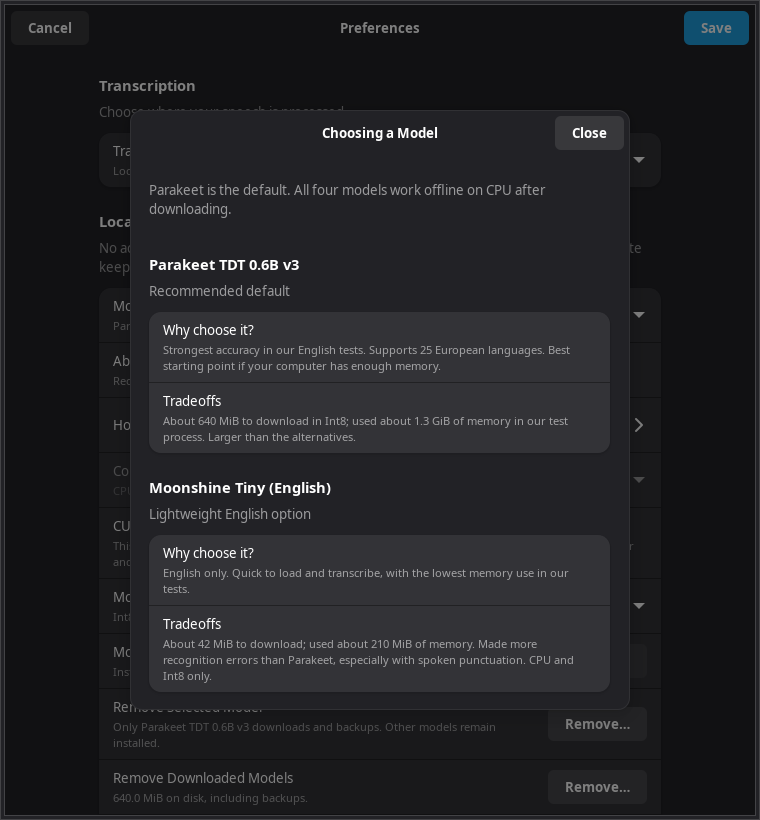
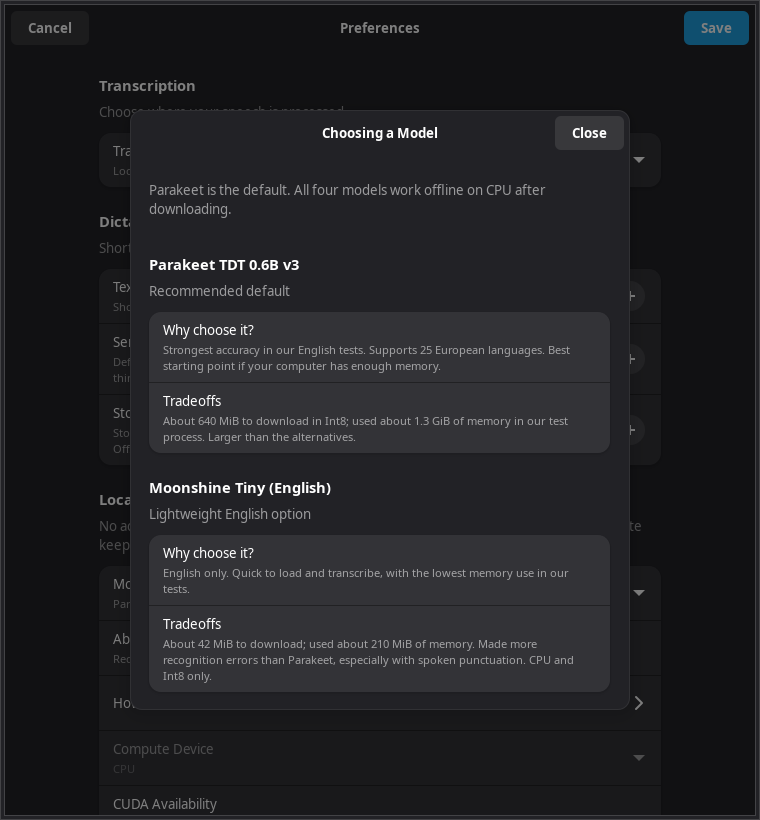
Add configurable dictation timing and silence stopping in 1.0.12

diff --git a/src/dictadesk/ui/preferences.py b/src/dictadesk/ui/preferences.py
@@ -137,6 +137,11 @@ class PreferencesDialog:
             "Transcription",
             [("local", "Local"), ("openai", "Remote")],
         )
+        timing = Adw.PreferencesGroup(
+            title="Dictation Timing",
+            description="Short pauses show text; longer pauses finalize sentence endings.",
+        )
+        page.add(timing)
         self.local_group = local = Adw.PreferencesGroup(
             title="Local Transcription",
             description="No account is needed. Download a model once, then dictate offline. Switching to Remote keeps downloads until you remove them.",
@@ -220,10 +225,10 @@ class PreferencesDialog:
         )
         local.add(live)
         self.controls["continuous_live"] = live
-        self.pause_rows = []
         for key, title, low, high, step, digits in [
-            ("pause_seconds", "Pause Length (Seconds)", 0.3, 5, 0.1, 1),
-            ("sentence_pause_seconds", "Sentence Pause (Seconds)", 1, 10, 0.1, 1),
+            ("pause_seconds", "Text Update Pause (Seconds)", 0.3, 5, 0.1, 1),
+            ("sentence_pause_seconds", "Sentence Ending Pause (Seconds)", 1, 10, 0.1, 1),
+            ("silence_stop_seconds", "Stop After Silence (Seconds)", 0, 600, 1, 0),
             ("silence_threshold", "Silence Threshold", 0.001, 0.2, 0.001, 3),
         ]:
             row = Adw.SpinRow.new_with_range(low, high, step)
@@ -231,11 +236,21 @@ class PreferencesDialog:
             if key == "pause_seconds":
                 row.set_subtitle("Show text after a short pause without ending the sentence.")
             elif key == "sentence_pause_seconds":
-                row.set_subtitle("Wait this long before finalizing the sentence ending.")
+                row.set_subtitle(
+                    "Default: 4 seconds. Lower this for shorter gaps between sentences; "
+                    "raise it for thinking pauses. Text Update Pause also sets the minimum wait."
+                )
+            elif key == "silence_stop_seconds":
+                row.set_subtitle(
+                    "Stops ordinary shortcut dictation after silence. Default: 20 seconds; "
+                    "0 means Off. Maximum recording length still applies."
+                )
+                row.set_numeric(False)
+                row.connect("output", self.format_silence_stop)
             row.set_digits(digits)
             row.set_value(self.values[key])
-            local.add(row)
-            self.pause_rows.append(row)
+            if key != "silence_threshold":
+                timing.add(row)
             self.controls[key] = row
         self.remote_group = remote = Adw.PreferencesGroup(
             title="Remote Transcription",
@@ -301,10 +316,9 @@ class PreferencesDialog:
         page.add(shortcuts)
         desktop = Adw.PreferencesGroup(title="Recording and Desktop")
         page.add(desktop)
-        for row in self.pause_rows:
-            local.remove(row)
-            row.set_subtitle("Used for continuous dictation and local previews.")
-            desktop.add(row)
+        threshold = self.controls["silence_threshold"]
+        threshold.set_subtitle("Audio level below which a pause counts as silence.")
+        desktop.add(threshold)
         self.spin(desktop, "max_seconds", "Maximum Recording (Seconds)", 1, 600)
         self.spin(
             desktop,
@@ -364,6 +378,13 @@ class PreferencesDialog:
         keys.connect("key-pressed", self.key_pressed)
         self.dialog.add_controller(keys)
         self.check_compute()
+
+    @staticmethod
+    def format_silence_stop(row):
+        if row.get_value() == 0:
+            row.set_text("Off")
+            return True
+        return False
 
     def check_compute(self):
         def check():

diff --git a/tests/test_continuous.py b/tests/test_continuous.py
@@ -60,6 +60,17 @@ class CaptureBufferTests(unittest.TestCase):
             self.assertTrue(updates[-1].final)
             self.assertTrue(updates[-1].audio.startswith(VOICE * 2))
 
+    def test_custom_silence_stop_threshold_and_off(self):
+        for seconds, stopped in ((2.9, False), (3, True)):
+            capture = self.capture_buffers(
+                [VOICE] * 2 + [SILENCE] * round(seconds * 10), silence_stop_seconds=3
+            )
+            self.assertEqual(capture.silence_stopped, stopped)
+        capture = self.capture_buffers(
+            [VOICE] * 2 + [SILENCE * 10] * 30, silence_stop_seconds=0
+        )
+        self.assertFalse(capture.silence_stopped)
+
     def test_resumed_speech_resets_auto_stop_and_continuous_mode_stays_open(self):
         capture = self.capture_buffers(
             [VOICE] * 2 + [SILENCE * 10] * 19 + [VOICE] * 2 + [SILENCE * 10] * 19,
@@ -100,7 +111,7 @@ class CaptureBufferTests(unittest.TestCase):
 
     def test_thinking_pause_preserves_audio_until_sentence_pause(self):
         capture = self.capture_buffers(
-            [VOICE] * 2 + [SILENCE] * 10 + [VOICE] * 2 + [SILENCE] * 45
+            [VOICE] * 2 + [SILENCE] * 10 + [VOICE] * 2 + [SILENCE] * 40
         )
         updates = []
         while capture.has_updates():
@@ -109,7 +120,7 @@ class CaptureBufferTests(unittest.TestCase):
         self.assertEqual([u.segment for u in updates], [0, 0, 0])
         self.assertTrue(updates[0].paused)
         self.assertEqual(updates[0].audio, VOICE * 2 + SILENCE * 10)
-        self.assertEqual(updates[-1].audio, VOICE * 2 + SILENCE * 10 + VOICE * 2 + SILENCE * 45)
+        self.assertEqual(updates[-1].audio, VOICE * 2 + SILENCE * 10 + VOICE * 2 + SILENCE * 40)
         self.assertTrue(updates[-1].sentence_end)
 
     def test_stop_flushes_before_sentence_timeout(self):
@@ -294,8 +305,9 @@ class ContinuousSessionTests(unittest.TestCase):
         self.assertEqual(self.session.notice, "")
 
     def test_auto_stop_only_for_pause_shortcut_mode(self):
+        self.session.preferences.silence_stop_seconds = 7
         for pause_mode, in_window, expected in (
-            (True, False, 20),
+            (True, False, 7),
             (False, False, 0),
             (True, True, 0),
         ):
@@ -306,6 +318,13 @@ class ContinuousSessionTests(unittest.TestCase):
                 )
                 self.assertEqual(self.session.capture.silence_stop_seconds, expected)
                 self.drain()
+
+    def test_auto_stop_can_be_disabled_for_pause_shortcut_mode(self):
+        self.session.preferences.silence_stop_seconds = 0
+        self.session.record_continuous(target=object(), pause_mode=True)
+        self.assertEqual(self.session.capture.silence_stop_seconds, 0)
+        self.drain()
+        self.assertEqual(self.events, ["started", "stopped", "completed"])
 
     def test_auto_stop_finishes_and_notifies_without_duplicate_insertion(self):
         closed = []

diff --git a/tests/preferences_window_acceptance.py b/tests/preferences_window_acceptance.py
@@ -93,6 +93,9 @@ def edit_preferences():
     p = app.preferences_dialog
     p.controls["backend"][0].set_selected(1)
     p.api_key.set_text("unsaved-fixture")
+    p.controls["sentence_pause_seconds"].set_value(2)
+    p.controls["silence_stop_seconds"].set_value(0)
+    assert p.controls["silence_stop_seconds"].get_text() == "Off"
     later(escape)
 
 
@@ -118,11 +121,23 @@ def after_escape():
     app.show_preferences()
     p = app.preferences_dialog
     assert p.controls["backend"][0].get_selected() == 0
+    assert p.controls["sentence_pause_seconds"].get_value() == 4
+    assert p.controls["silence_stop_seconds"].get_value() == 20
+    p.controls["sentence_pause_seconds"].set_value(2)
+    p.controls["silence_stop_seconds"].set_value(0)
+    assert p.controls["silence_stop_seconds"].get_text() == "Off"
+    p.controls["silence_stop_seconds"].set_value(30)
+    assert p.controls["silence_stop_seconds"].get_text() == "30"
+    p.controls["silence_stop_seconds"].set_text("0")
+    p.controls["silence_stop_seconds"].update()
+    assert p.controls["silence_stop_seconds"].get_value() == 0
+    assert p.controls["silence_stop_seconds"].get_text() == "Off"
 
     # Exercise Save through its existing completion callback without touching
     # login startup or credentials in this presentation-only check.
     def save(prefs, key, close):
         assert prefs.backend == "local" and not key
+        assert prefs.sentence_pause_seconds == 2 and prefs.silence_stop_seconds == 0
         close()
 
     with patch.object(app, "save_preferences", side_effect=save) as saved:

diff --git a/tests/test_core.py b/tests/test_core.py
@@ -41,12 +41,26 @@ class StorageTests(unittest.TestCase):
         self.path.write_text(json.dumps({"schema": 1, "preferences": {"pause_seconds": 0.8}}))
         prefs = self.store.read()
         self.assertEqual(prefs.pause_seconds, 0.8)
-        self.assertEqual(prefs.sentence_pause_seconds, 4.5)
+        self.assertEqual(prefs.sentence_pause_seconds, 4.0)
         prefs.sentence_pause_seconds = 5.2
         self.store.save(prefs)
         self.assertEqual(self.store.read().sentence_pause_seconds, 5.2)
         with self.assertRaises(ValueError):
             replace(prefs, sentence_pause_seconds=0.2).validate()
+
+    def test_silence_stop_defaults_and_custom_values_survive_save(self):
+        self.path.write_text(
+            json.dumps({"schema": 1, "preferences": {"sentence_pause_seconds": 4.5}})
+        )
+        prefs = self.store.read()
+        self.assertEqual(prefs.silence_stop_seconds, 20)
+        self.assertEqual(prefs.sentence_pause_seconds, 4.5)
+        for value in (0, 3, 45, 600):
+            self.store.save(replace(prefs, silence_stop_seconds=value))
+            self.assertEqual(self.store.read().silence_stop_seconds, value)
+        for value in (-1, 601, True, 1.5):
+            with self.assertRaises(ValueError):
+                replace(prefs, silence_stop_seconds=value).validate()
 
     def test_legacy_remote_models_upgrade_without_resetting_other_preferences(self):
         from dataclasses import asdict

diff --git a/tests/package_smoke.py b/tests/package_smoke.py
@@ -18,7 +18,7 @@ from Xlib.ext import xtest  # noqa: E402
 import onnxruntime  # noqa: E402
 import moonshine_voice  # noqa: E402, F401
 
-assert __version__ == "1.0.10"
+assert __version__ == "1.0.12"
 assert onnxruntime.get_available_providers()
 assert SettingsStore().read().local_model == "parakeet"
 assert str(model_directory(create=True)).startswith("/var/cache/dictadesk/")
@@ -126,7 +126,7 @@ try:
     assert not owns()
     assert not list(model_directory().rglob("*.onnx"))
     print(
-        "PASS installed 1.0.10: runtime imports, main window, About, Preferences, tray and clean shutdown"
+        "PASS installed 1.0.12: runtime imports, main window, About, Preferences, tray and clean shutdown"
     )
 finally:
     if process.poll() is None:

diff --git a/src/dictadesk/core/settings.py b/src/dictadesk/core/settings.py
@@ -42,7 +42,8 @@ class Preferences:
     max_seconds: int = 180
     preview_pauses: bool = False
     pause_seconds: float = 1.0
-    sentence_pause_seconds: float = 4.5
+    sentence_pause_seconds: float = 4.0
+    silence_stop_seconds: int = 20
     silence_threshold: float = 0.015
     auto_paste: bool = True
     symbolic: bool = True
@@ -101,6 +102,7 @@ class Preferences:
         for name, low, high in (
             ("idle_seconds", 0, 86400),
             ("max_seconds", 1, 600),
+            ("silence_stop_seconds", 0, 600),
             ("continuous_minutes", 1, 240),
         ):
             value = getattr(self, name)

diff --git a/tests/ui_acceptance.py b/tests/ui_acceptance.py
@@ -144,6 +144,9 @@ def preferences():
     assert "CPU runtime" in app.preferences_dialog.compute_status.get_subtitle()
     p = app.preferences_dialog
     assert "mode" not in p.controls
+    assert p.controls["sentence_pause_seconds"].get_value() == 4.0
+    assert "thinking pauses" in p.controls["sentence_pause_seconds"].get_subtitle()
+    assert "without ending the sentence" in p.controls["pause_seconds"].get_subtitle()
     assert p.dialog.get_visible()
     assert p.dialog.get_resizable() and p.dialog.get_transient_for() is app.window
     assert p.dialog.get_height() >= 800

diff --git a/src/dictadesk/core/session.py b/src/dictadesk/core/session.py
@@ -525,7 +525,7 @@ class Session:
         if pause_mode:
             capture.limit = prefs.max_seconds
             if not in_window:
-                capture.silence_stop_seconds = 20
+                capture.silence_stop_seconds = prefs.silence_stop_seconds
         self.changed()
         first = True
         active_segment = None

diff --git a/src/dictadesk/__init__.py b/src/dictadesk/__init__.py
@@ -1,5 +1,5 @@
 # SPDX-License-Identifier: GPL-3.0-only
 """DictaDesk, an independent Cinnamon dictation application."""
 
-__version__ = "1.0.10"
+__version__ = "1.0.12"
 APP_ID = "io.github.woodpile72.DictaDesk"

diff --git a/README.rst b/README.rst
@@ -11,15 +11,15 @@ Speak into a text field using a keyboard shortcut, or record in DictaDesk and
 copy the result. Built with Python, GTK 4 and libadwaita, with a tray workflow
 for Cinnamon. Local transcription is the default.
 
-`Download DictaDesk 1.0.10 for Linux (.deb) <https://github.com/woodpile72/DictaDesk/releases/download/v1.0.10/dictadesk_1.0.10_amd64.deb>`_
-· `Release notes <https://github.com/woodpile72/DictaDesk/releases/tag/v1.0.10>`_
+`Download DictaDesk 1.0.12 for Linux (.deb) <https://github.com/woodpile72/DictaDesk/releases/download/v1.0.12/dictadesk_1.0.12_amd64.deb>`_
+· `Release notes <https://github.com/woodpile72/DictaDesk/releases/tag/v1.0.12>`_
 · `Report an issue <https://github.com/woodpile72/DictaDesk/issues>`_
 
 .. image:: media/screenshots/main-window.png
    :alt: DictaDesk's main window with dictation instructions and Start Recording
    :width: 880
 
-Screenshots show the actual DictaDesk 1.0.8 interface in an isolated demonstration
+Screenshots show the actual DictaDesk 1.0.12 interface in an isolated demonstration
 profile, with simulated readiness and sample text. No personal transcripts or
 credentials are shown.
 
@@ -28,11 +28,11 @@ Install
 
 Developed and tested on **Linux Mint 22.3 Cinnamon, X11, x86-64 (amd64)**.
 Download the Debian package and
-`SHA256SUMS <https://github.com/woodpile72/DictaDesk/releases/download/v1.0.10/SHA256SUMS>`_
+`SHA256SUMS <https://github.com/woodpile72/DictaDesk/releases/download/v1.0.12/SHA256SUMS>`_
 into the same folder, then run::
 
     sha256sum --ignore-missing -c SHA256SUMS
-    sudo apt install ./dictadesk_1.0.10_amd64.deb
+    sudo apt install ./dictadesk_1.0.12_amd64.deb
 
 Check that the checksum reports ``OK``, then launch **DictaDesk** from your
 application menu. Open Preferences and download a local model before recording.
@@ -47,17 +47,21 @@ Start dictating
    microphone test helps check input and recognition.
 2. Click a text field in another application. Press **Super+V**, speak, then
    press **Super+V** again or **Escape** to finish. Text is inserted at pauses.
-   Recording also stops after **20 seconds of continuous silence**. Speaking
+   By default, recording stops after **20 seconds of continuous silence**. Speaking
    again before then resets the timer.
 3. For longer dictation, **Super+Shift+V** starts continuous mode with stable
    text insertion while speaking. Press it again or **Escape** to finish.
 
 Short pauses show text without finalizing the sentence ending. By default,
-DictaDesk waits 4.5 seconds of silence to finalize it; stopping also finalizes it.
-The 20-second auto-stop applies only to the ordinary dictation shortcut;
+DictaDesk waits 4 seconds of silence to finalize it; stopping also finalizes it.
+Silence-based auto-stop applies only to the ordinary dictation shortcut;
 continuous mode and button recordings retain their existing stop controls.
-Both pause lengths are adjustable in Preferences. Explicit spoken punctuation
-is respected when that option is enabled. Recognition can still infer punctuation
+All three timings are adjustable under **Preferences → Dictation Timing**.
+Lower **Sentence Ending Pause** for shorter gaps between sentences, or raise it
+to allow longer thinking pauses. **Stop After Silence** accepts 1–600 seconds;
+set it to **0 (Off)** to keep recording through quiet gaps. The separate
+maximum recording length still applies. Existing saved values are preserved.
+Explicit spoken punctuation is respected when that option is enabled. Recognition can still infer punctuation
 within a phrase. A few trailing words stay provisional so recognition can revise
 them when you continue. In-window drafts can change freely; text already inserted
 into another application is never automatically overwritten.
@@ -137,7 +141,7 @@ Source uses a ``src/dictadesk`` layout. Build and test instructions are in
 model weights, dependency wheels and local caches are not part of this repository.
 
 .. image:: media/screenshots/about.png
-   :alt: DictaDesk About screen with its microphone icon and version 1.0.8
+   :alt: DictaDesk About screen with its microphone icon and version 1.0.12
    :width: 880
 
 License and credits

diff --git a/DEVELOPMENT.rst b/DEVELOPMENT.rst
@@ -56,7 +56,7 @@ Publish 1.x versions as regular GitHub releases, marking the newest as Latest.
 
 From the reviewed release tag, use the Python 3.12 environment above::
 
-    git checkout v1.0.10
+    git checkout v1.0.12
     scripts/build-deb
 
 ``requirements.lock`` pins private runtime wheels and their SHA-256 hashes.
@@ -109,3 +109,9 @@ The 1.0.10 tray update passes 170 unit tests and isolated GTK, tray and startup
 checks. Preferences opens from the tray without mapping the main window,
 including at 1024x600 after background startup. Closing or saving Preferences
 preserves the main window’s visibility. Tray loss still restores access.
+
+The 1.0.12 timing update passes 173 unit tests, including custom silence-stop
+durations, Off, old-settings defaults and saved-value preservation. Isolated GTK
+checks cover numeric entry, Save/Cancel, narrow/large-text/high-contrast layouts
+and continuous text insertion. Sentence-ending defaults are now four seconds;
+explicit saved values remain unchanged.
